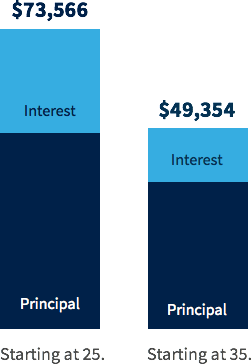
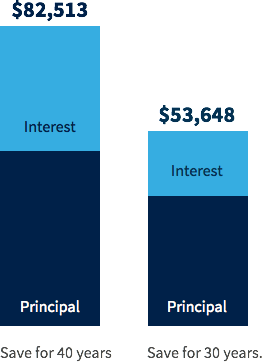
Updated graphs with new interest rate

diff --git a/_includes/calculator-v4.html b/_includes/calculator-v4.html
@@ -7,11 +7,11 @@
     <div class="education">
       <div class="intro">
         <p><span class="myra">myRA</span> is a new way to kick start your savings by helping you set aside a few dollars per month. The more you can save the better. And the sooner you start saving, the more time there will be for your savings to grow, giving you more money in retirement.</p>
-        <p>For example, if you start putting away $100 a month now and do so for the next 30 years, you would earn $25,566 in interest for a total $73,566 in savings. But if you start putting away $100 a month now and only do so for the next 20 years, you would earn $13,345 in interest for a total $49,345 in savings. That's $12,221 in interest you would miss.
+        <p>For example, if you start putting away $100 a month now and do so for the next 30 years, you would earn $17,648 in interest for a total $53,648 in savings. But if you start putting away $100 a month now and only do so for the next 20 years, you would earn $7,162 in interest for a total $31,162 in savings. That's $10,486 in interest you would miss.</p>
       </div>
       <figure class="chart">
-        <img src="{{ site.baseurl }}/static/img/graph.png" alt="Bar chart showing that starting at age 25, saving $100 a month will result in $73,566 by age 65, including 65% principal and 35% interest. Starting at age 35, it will result in $49,345, including 73% principal and 27% interest.">
-        <figcaption><strong><a class="tooltip" title="This is an estimate based on an average rate of return of 2%, compounded monthly. Actual results will vary." aria-label="This is an estimate based on an average rate of return of 2%, compounded monthly. Actual results will vary." tabindex="0">Savings at age 65 by saving $100 a month. <i class="icon-info"></i></a></strong></figcaption>
+        <img src="{{ site.baseurl }}/static/img/graph.png" alt="Bar chart showing that saving $100 for 30 years will result in $53,648, including 67% principal and 33% interest. Saving for 20 years will result in $31,162 including 77% principal and 23% interest.">
+        <figcaption><strong><a class="tooltip" title="This is an estimate based on an average rate of return of 2.5%, compounded monthly. Actual results will vary." aria-label="This is an estimate based on an average rate of return of 2.5%, compounded monthly. Actual results will vary." tabindex="0">Savings at age 65 by saving $100 a month. <i class="icon-info"></i></a></strong></figcaption>
       </figure>
     </div>
     <div class="no-js-warning">
@@ -88,7 +88,7 @@
           <p><strong>Feeling ambitious?</strong> Increase your monthly contribution to reach your goal faster.</strong></p>
         </div>
         <div class="calculator-disclaimer">
-          <p>This calculator is for demonstration purposes only and does not indicate actual performance. It is based on estimates given a 2% interest rate, compounded monthly.</p>
+          <p>This calculator is for demonstration purposes only and does not indicate actual performance. It is based on estimates given a 2.5% interest rate, compounded monthly.</p>
         </div>
       </div>
     </div> <!-- .calculator -->

diff --git a/static/js/calculator.js b/static/js/calculator.js
@@ -59,7 +59,7 @@ jQuery(document).ready(function($){
   //Set Interest Compound Periods
   // Set the APR in decimal form
   var ip = 12;
-  var apr = 0.02;
+  var apr = 0.025;
   var goal = 5000;
 
   // Get the savings goal
